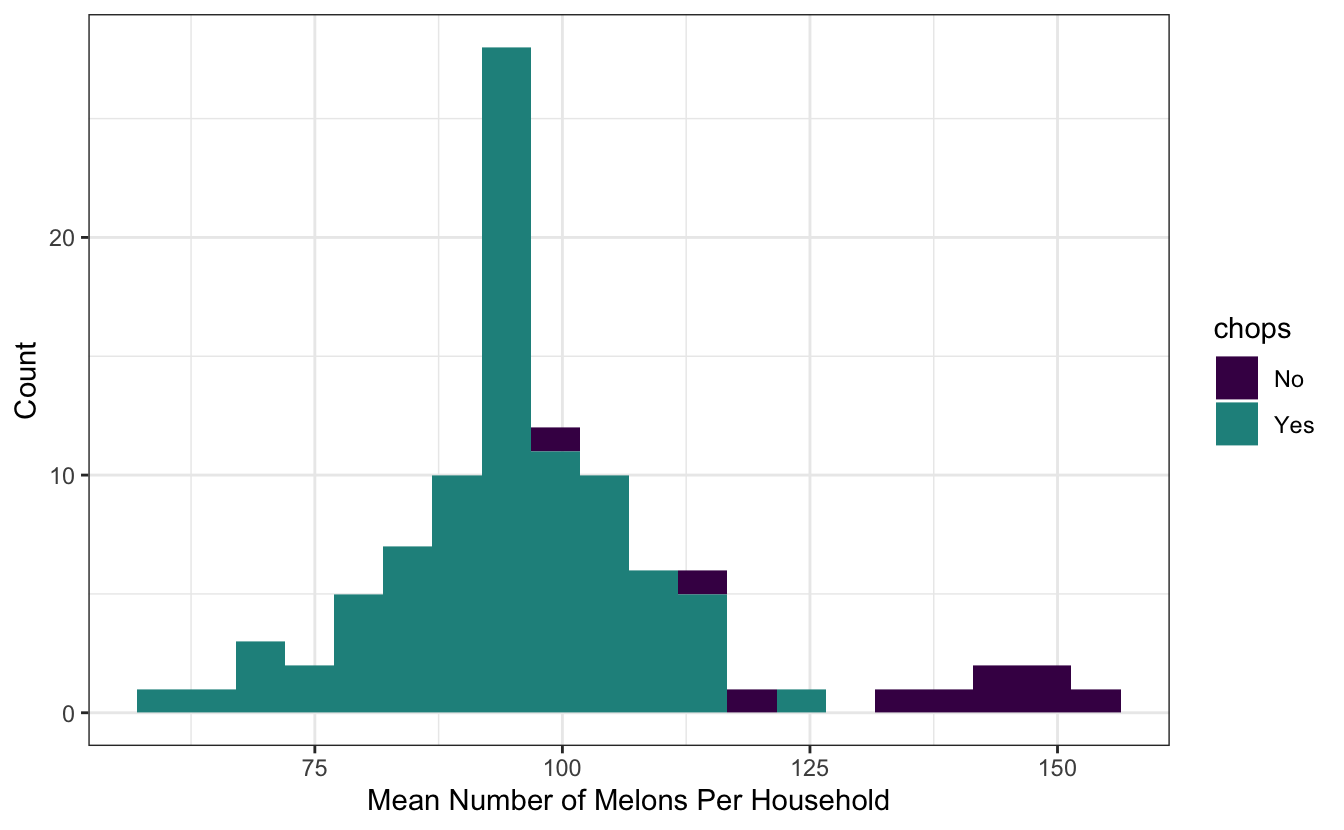
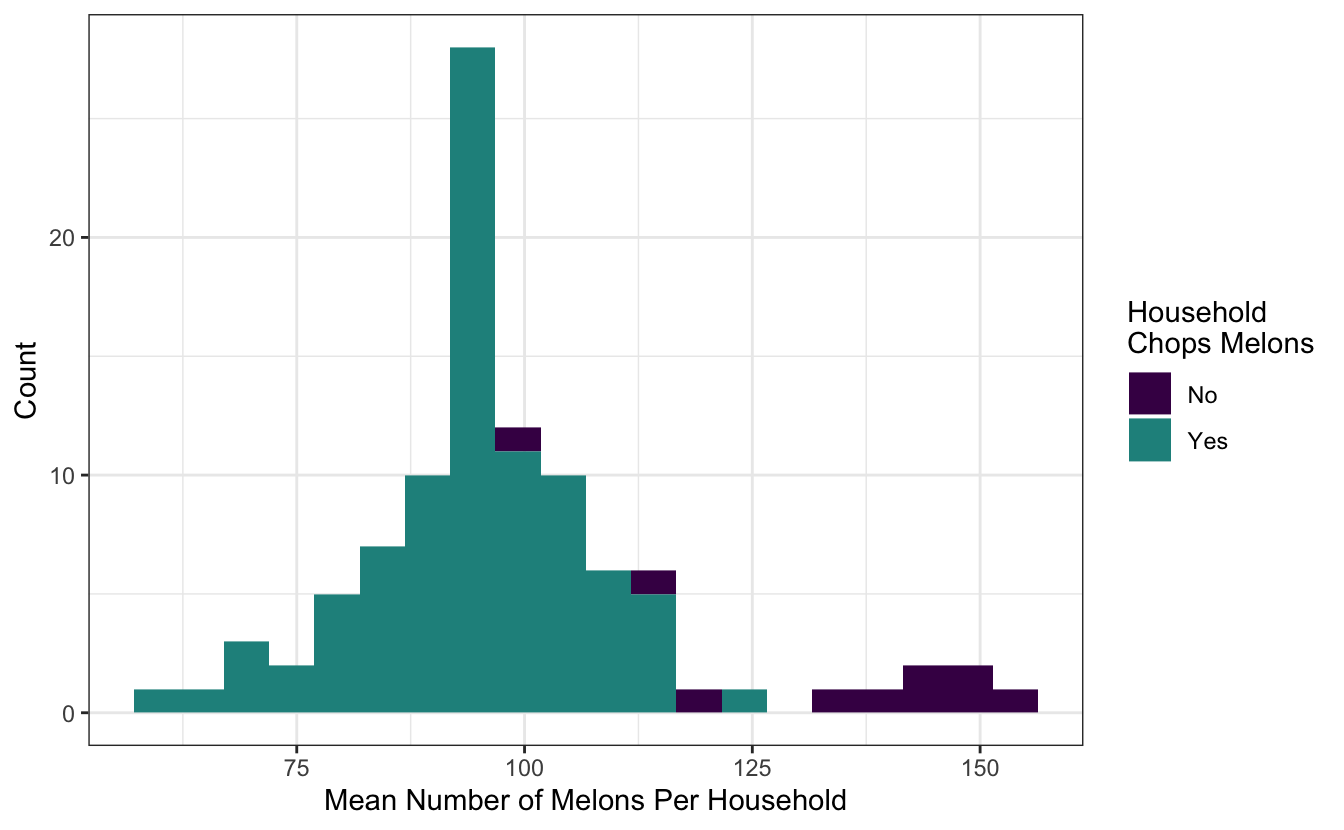
correct label argument

diff --git a/content/blog/tidymodels-2022-q4/index.md b/content/blog/tidymodels-2022-q4/index.md
@@ -14,7 +14,7 @@ photo:
 # one of: "deep-dive", "learn", "package", "programming", "roundup", or "other"
 categories: [roundup] 
 tags: [tidymodels, recipes, parsnip, rsample]
-rmd_hash: c92bbff3ad4fadcc
+rmd_hash: 821e34ef7c8dcd2d
 
 ---
 
@@ -59,16 +59,16 @@ To illustrate, we'll make use of a dataset `silly_data` with a number of differe
 <div class="highlight">
 
 <pre class='chroma'><code class='language-r' data-lang='r'><span><span class='nf'><a href='https://rdrr.io/r/utils/str.html'>str</a></span><span class='o'>(</span><span class='nv'>goofy_data</span><span class='o'>)</span></span><span><span class='c'>#&gt; tibble [100 × 10] (S3: tbl_df/tbl/data.frame)</span></span>
-<span><span class='c'>#&gt;  $ class: Factor w/ 2 levels "class_1","class_2": 1 2 1 2 2 2 1 1 1 1 ...</span></span>
-<span><span class='c'>#&gt;  $ a    : int [1:100] 5 6 6 5 5 5 1 4 1 6 ...</span></span>
-<span><span class='c'>#&gt;  $ b    : num [1:100] 2.0698 -0.0604 2.7331 -0.3537 1.3103 ...</span></span>
-<span><span class='c'>#&gt;  $ c    : Factor w/ 3 levels "-1","0","1": 2 3 2 2 2 2 2 3 1 3 ...</span></span>
-<span><span class='c'>#&gt;  $ d    : num [1:100] 0.28 0.612 0.162 0.595 0.401 ...</span></span>
-<span><span class='c'>#&gt;  $ e    : num [1:100] 0.693 0.927 0.984 0.905 0.816 ...</span></span>
-<span><span class='c'>#&gt;  $ f    : Factor w/ 7 levels "-3","-2","-1",..: 3 4 5 4 5 4 5 3 4 4 ...</span></span>
-<span><span class='c'>#&gt;  $ g    : num [1:100] 1.912 -1.098 -1.453 0.337 -0.332 ...</span></span>
-<span><span class='c'>#&gt;  $ h    : num [1:100] -2.012 1.389 0.156 0.105 -0.85 ...</span></span>
-<span><span class='c'>#&gt;  $ i    : chr [1:100] "white" "maroon" "white" "white" ...</span></span></code></pre>
+<span><span class='c'>#&gt;  $ class: Factor w/ 2 levels "class_1","class_2": 1 1 2 2 1 1 2 1 2 1 ...</span></span>
+<span><span class='c'>#&gt;  $ a    : int [1:100] 2 5 6 7 5 6 3 5 5 3 ...</span></span>
+<span><span class='c'>#&gt;  $ b    : num [1:100] -2.959 -0.247 0.086 0.835 1.195 ...</span></span>
+<span><span class='c'>#&gt;  $ c    : Factor w/ 3 levels "-1","0","1": 2 2 2 2 2 2 1 1 1 2 ...</span></span>
+<span><span class='c'>#&gt;  $ d    : num [1:100] 0.1919 0.7206 0.0432 0.7988 0.1029 ...</span></span>
+<span><span class='c'>#&gt;  $ e    : num [1:100] 0.363 0.791 0.39 0.201 0.33 ...</span></span>
+<span><span class='c'>#&gt;  $ f    : Factor w/ 6 levels "-3","-2","-1",..: 4 4 3 4 3 4 5 4 4 3 ...</span></span>
+<span><span class='c'>#&gt;  $ g    : num [1:100] -0.471 1.155 -0.664 0.85 0.335 ...</span></span>
+<span><span class='c'>#&gt;  $ h    : num [1:100] 0.5344 -0.588 -0.0227 -1.3731 1.0961 ...</span></span>
+<span><span class='c'>#&gt;  $ i    : chr [1:100] "maroon" "white" "white" "maroon" ...</span></span></code></pre>
 
 </div>
 
